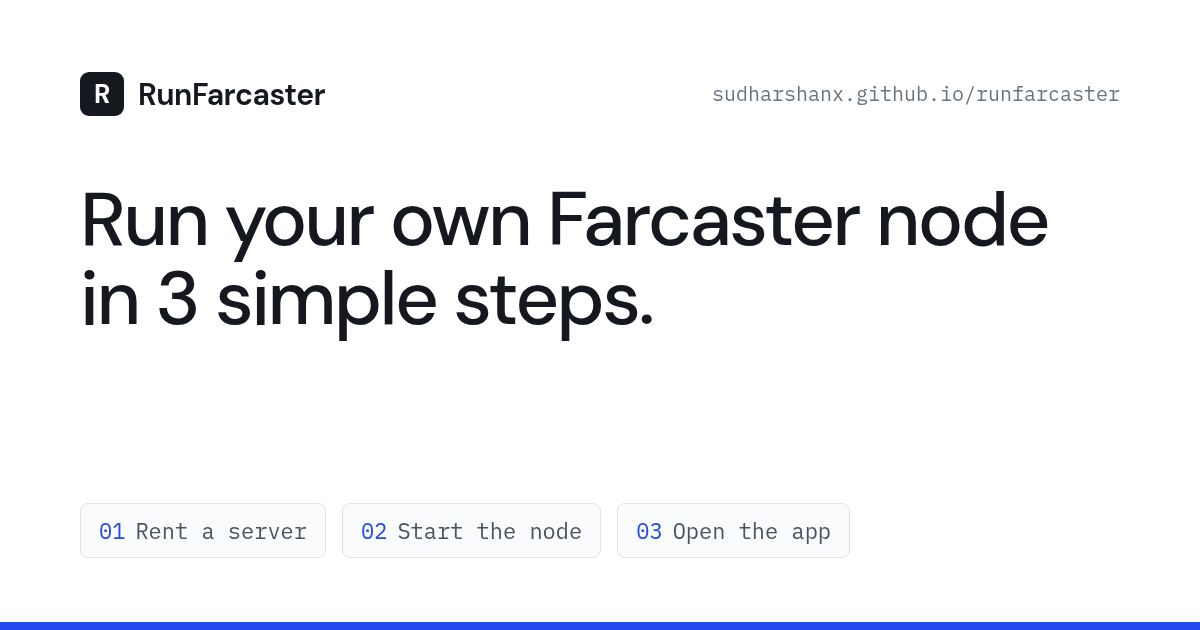
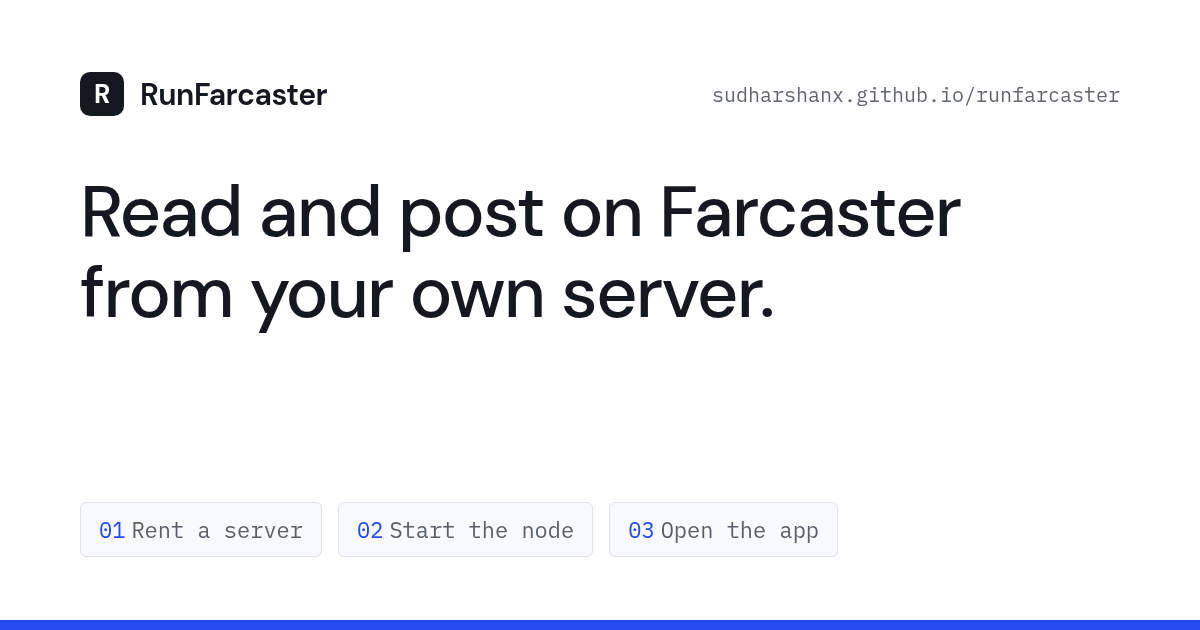
Headline: Read and post on Farcaster from your own server
Hero h1 and subhead, 'Run the 3 commands' CTA, step cards state their result with the
bounty's three steps, hero proof line links to the mainnet proof, new OG image, title/description/
llms.txt/prompt context/README updated. Quickstart opens with the end state. How Farcaster works
groups concepts by reading and posting and explains where a post goes from a read node and why
KEY_ADD needs no gas. Landing proof shows a real feed screenshot (eager load). Proof table header
no longer wraps.

diff --git a/site/src/pages/llms.txt.ts b/site/src/pages/llms.txt.ts
@@ -4,11 +4,11 @@ import { REPO } from "../prompts";
 
 export const GET: APIRoute = async ({ site }) => {
   const base = new URL(import.meta.env.BASE_URL, site).href.replace(/\/?$/, "/");
-  const home = `- [Home](${base}): Rent a server, run the Snapchain read node on it, and open a small Farcaster app served by that node.`;
+  const home = `- [Home](${base}): RunFarcaster sets up your own Farcaster node and app with no gatekeepers in between.`;
   const list = home + "\n" + (await pages()).map((e) => `- [${e.data.title}](${base}${e.id === "index" ? "" : `${e.id}/`}): ${e.data.description ?? ""}`).join("\n");
-  const body = `# Run your own Farcaster node in 3 simple steps
+  const body = `# RunFarcaster: read and post on Farcaster from your own server
 
-> Rent a Hetzner server. Start a Snapchain read node on it with the official bootstrap. Open a small web app served from the same server over HTTPS. You need no API keys. On a Hetzner cax31 with a 1000 GB volume, expect about 14 hours from renting the server to synced, about $2.31 at $0.164 an hour, and a database of about 560 GB. cax31 was sold out on 2026-10-18; with SERVER_TYPE="" the script rents the first 16 GB type for sale, likely cpx42 (about $0.255 an hour with the volume, untested). A gasless KEY_ADD and a cast have been tested on mainnet (2026-10-18); likes, recasts and follows only against a mock node.
+> RunFarcaster sets up your own Farcaster node and app with no gatekeepers in between. Rent a Hetzner server. Start a Snapchain read node on it with the official bootstrap. Open a small web app served from the same server over HTTPS. You need no API keys. On a Hetzner cax31 with a 1000 GB volume, expect about 14 hours from renting the server to synced, about $2.31 at $0.164 an hour, and a database of about 560 GB. cax31 was sold out on 2026-10-18; with SERVER_TYPE="" the script rents the first 16 GB type for sale, likely cpx42 (about $0.255 an hour with the volume, untested). A gasless KEY_ADD and a cast have been tested on mainnet (2026-10-18); likes, recasts and follows only against a mock node.
 
 Key facts:
 - An app key is added with a KEY_ADD message that the custody address signs (EIP-712). It needs no transaction on OP Mainnet. Mainnet has accepted it since engine version V16 on 2026-05-07 (https://snapchain.farcaster.xyz/guides/writing-messages; snapchain src/version/version.rs).

diff --git a/site/src/prompts.ts b/site/src/prompts.ts
@@ -9,7 +9,7 @@ const SAFETY = `Rules for you:
 - Ask me before you run teardown.sh, delete anything, or change MAX_USD.
 - Show me real output only. If a command fails, show the exact error and stop.`;
 
-const CONTEXT = `Context: I am following the guide "Run your own Farcaster node in 3 simple steps" (a Snapchain read node and a web app).
+const CONTEXT = `Context: I am following the RunFarcaster guide (3 commands: a Hetzner server running a Snapchain read node, and a web app that reads and posts through it).
 Repo: ${REPO} (MIT). I cloned it to my computer (git clone ${REPO}, then cd runfarcaster) and run every command from that folder. Scripts: provision.sh (step 1), node.sh (step 2), deploy-client.sh (step 3), teardown.sh, and watchdog.sh (optional).
 In any new terminal, get the server IP again with: IP=$(hcloud server ip snapchain-read-node)`;
 

diff --git a/README.md b/README.md
@@ -1,6 +1,7 @@
-# Run your own Farcaster node in 3 simple steps
+# RunFarcaster: read and post on Farcaster from your own server
 
-Rent a server. Start the node. Open the app.
+Three commands: rent a Hetzner server, bring up a Snapchain read node there, and open a web app that reads your
+feed from that node and posts through it.
 
 This repo holds the scripts for those 3 steps, a small web app, the tests and the guide's website. The node is a
 Snapchain read node with a full copy of Farcaster. The app shows a feed from that node and can post casts,
